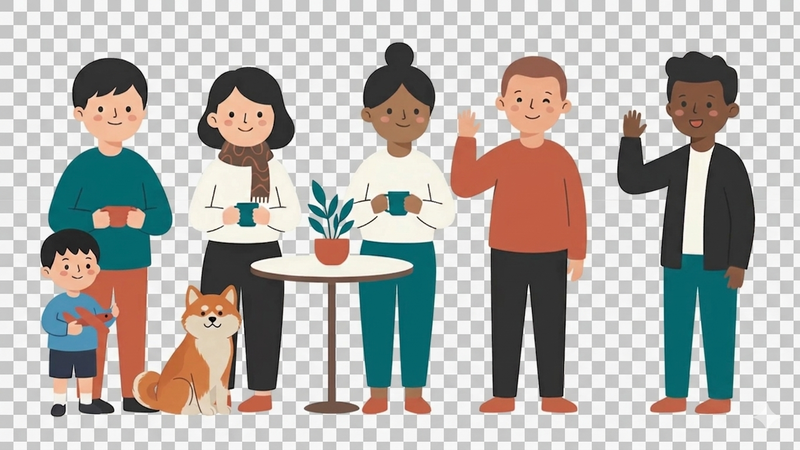
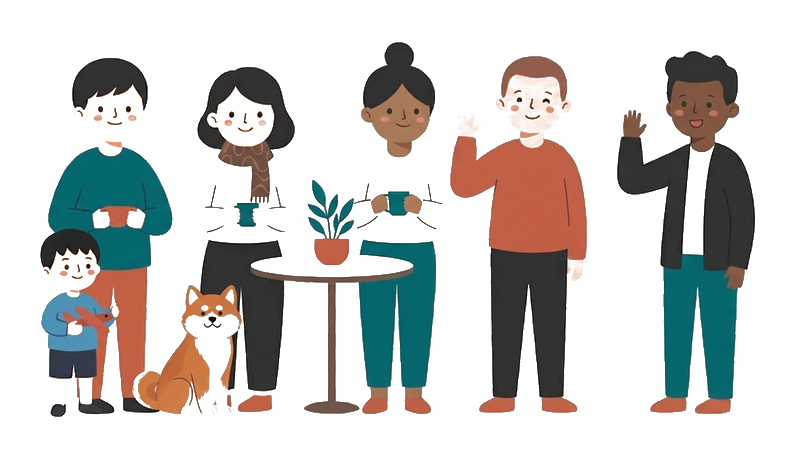
Fix illustration transparency + remove boundary completely
- Removed checkerboard from PNG (67% transparent now)
- content-card: full width (removed max-width 720px), no box-shadow
- Gradient fade seamlessly blends into offwhite background

diff --git a/src/index.css b/src/index.css
@@ -262,10 +262,7 @@ body {
 
 /* ── White Card Wrapper ── */
 .content-card {
-  margin: 0 auto;
-  max-width: 720px;
   background: var(--cuen-offwhite);
-  box-shadow: none;
   overflow: hidden;
 }
 
